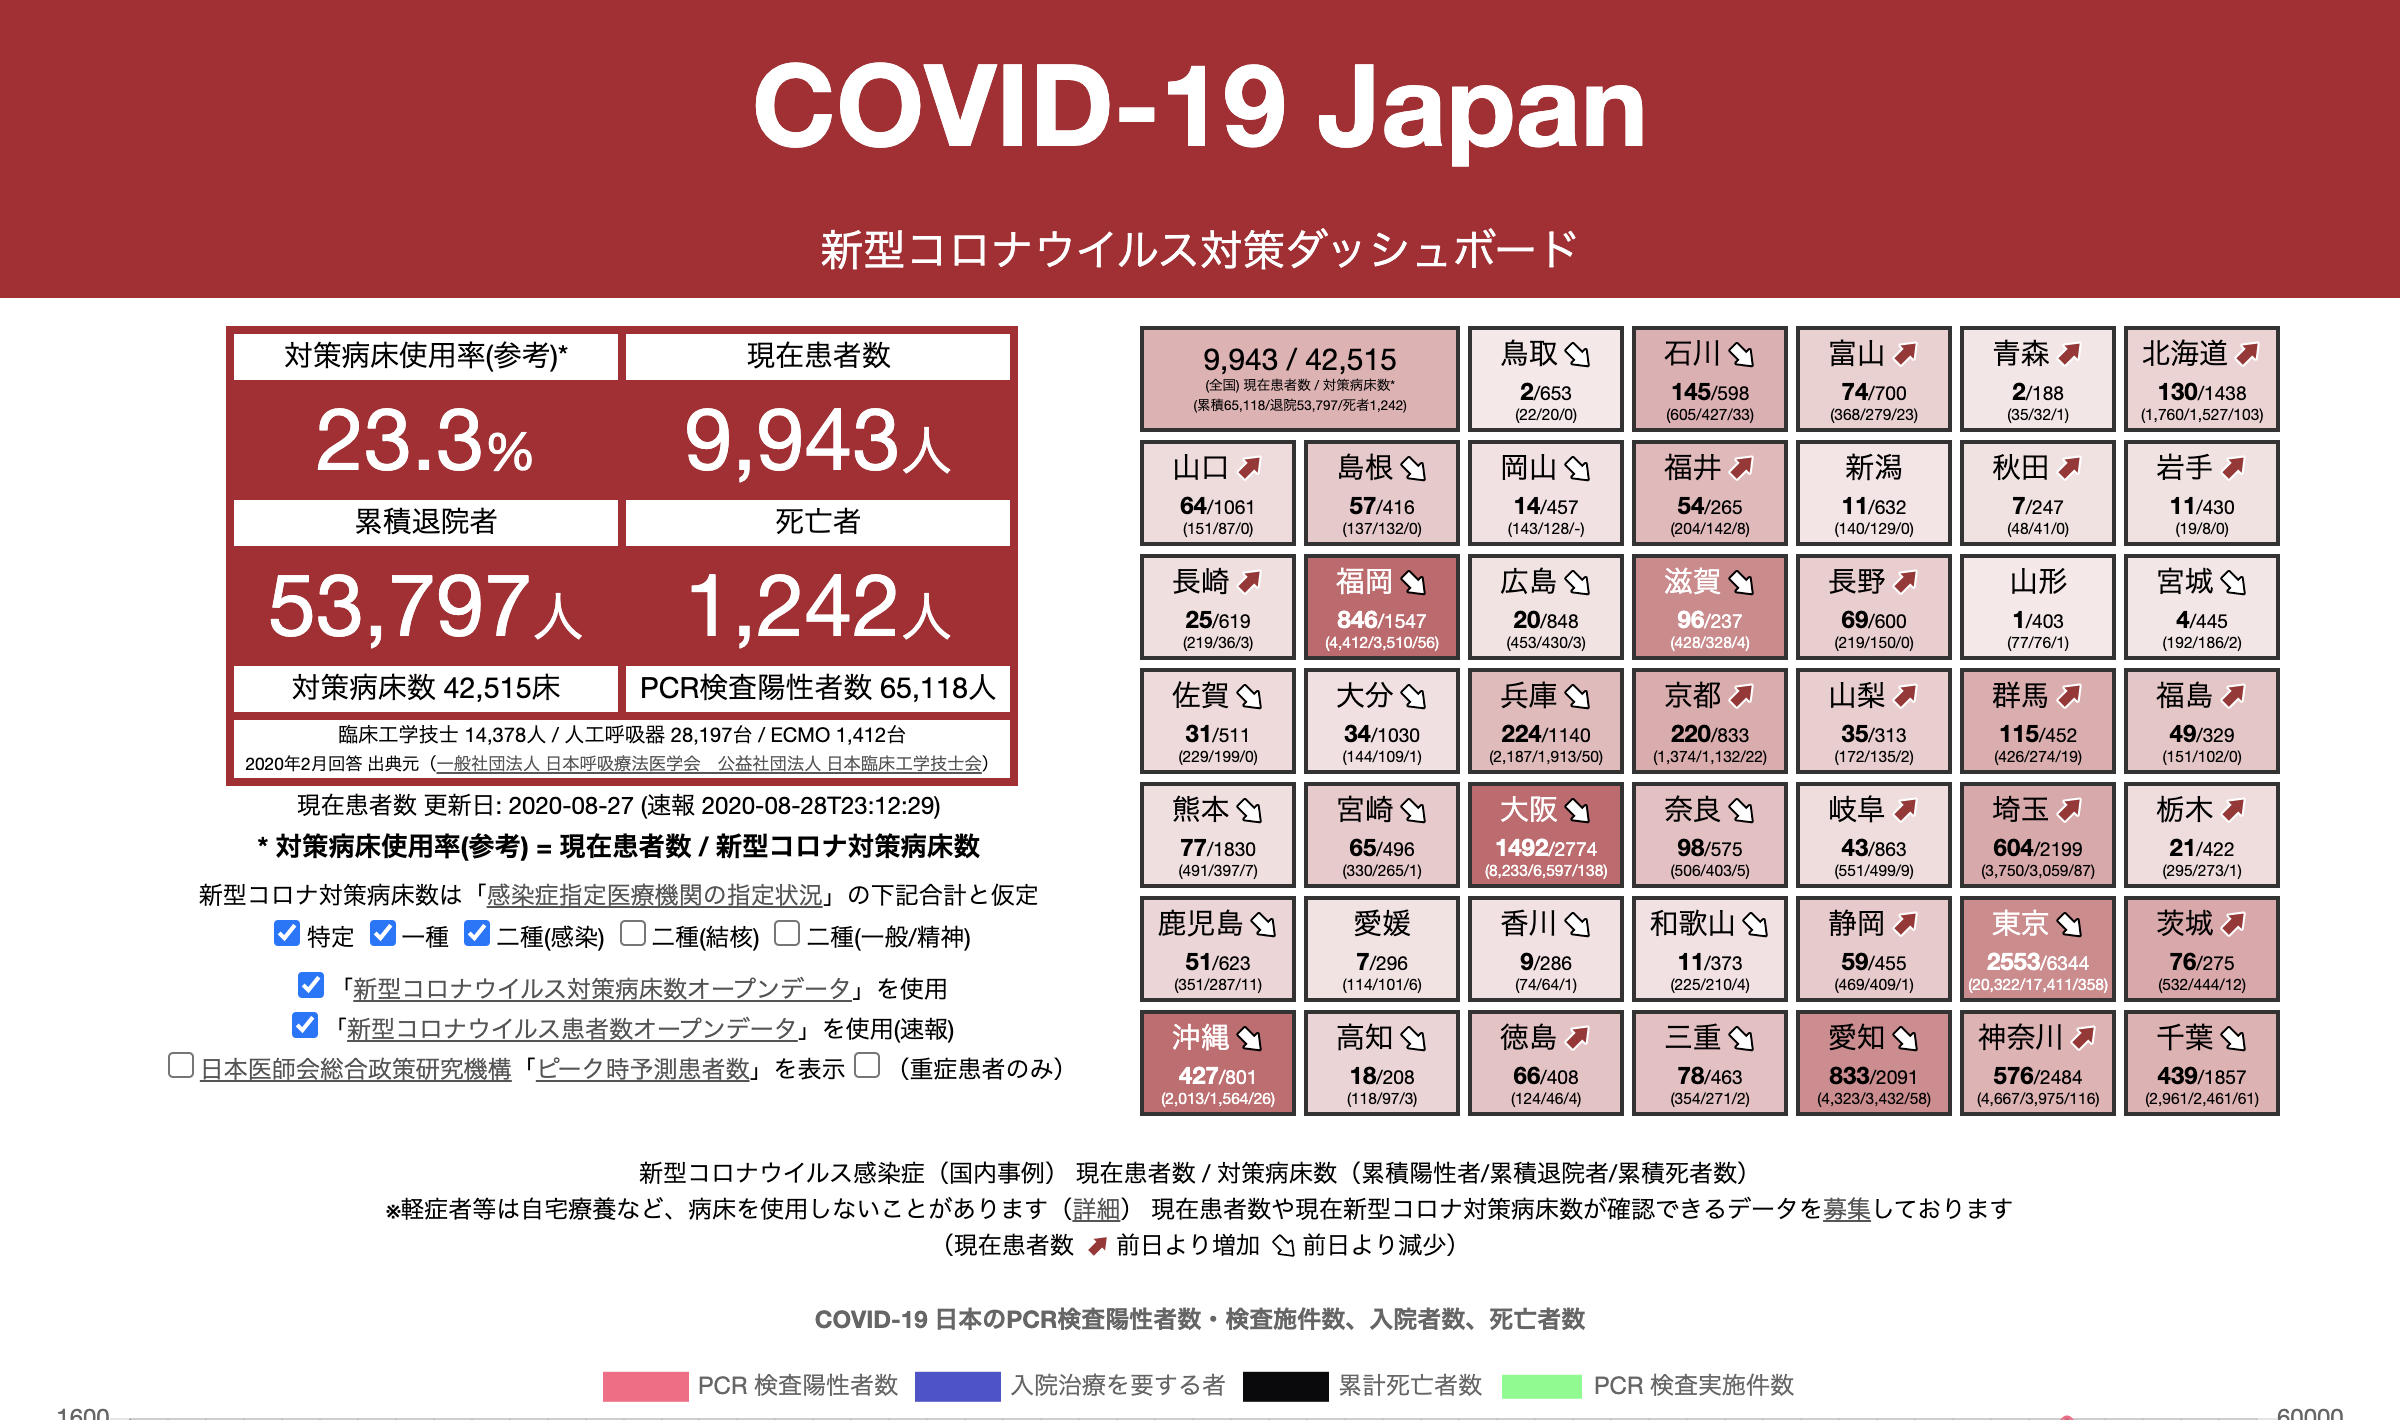
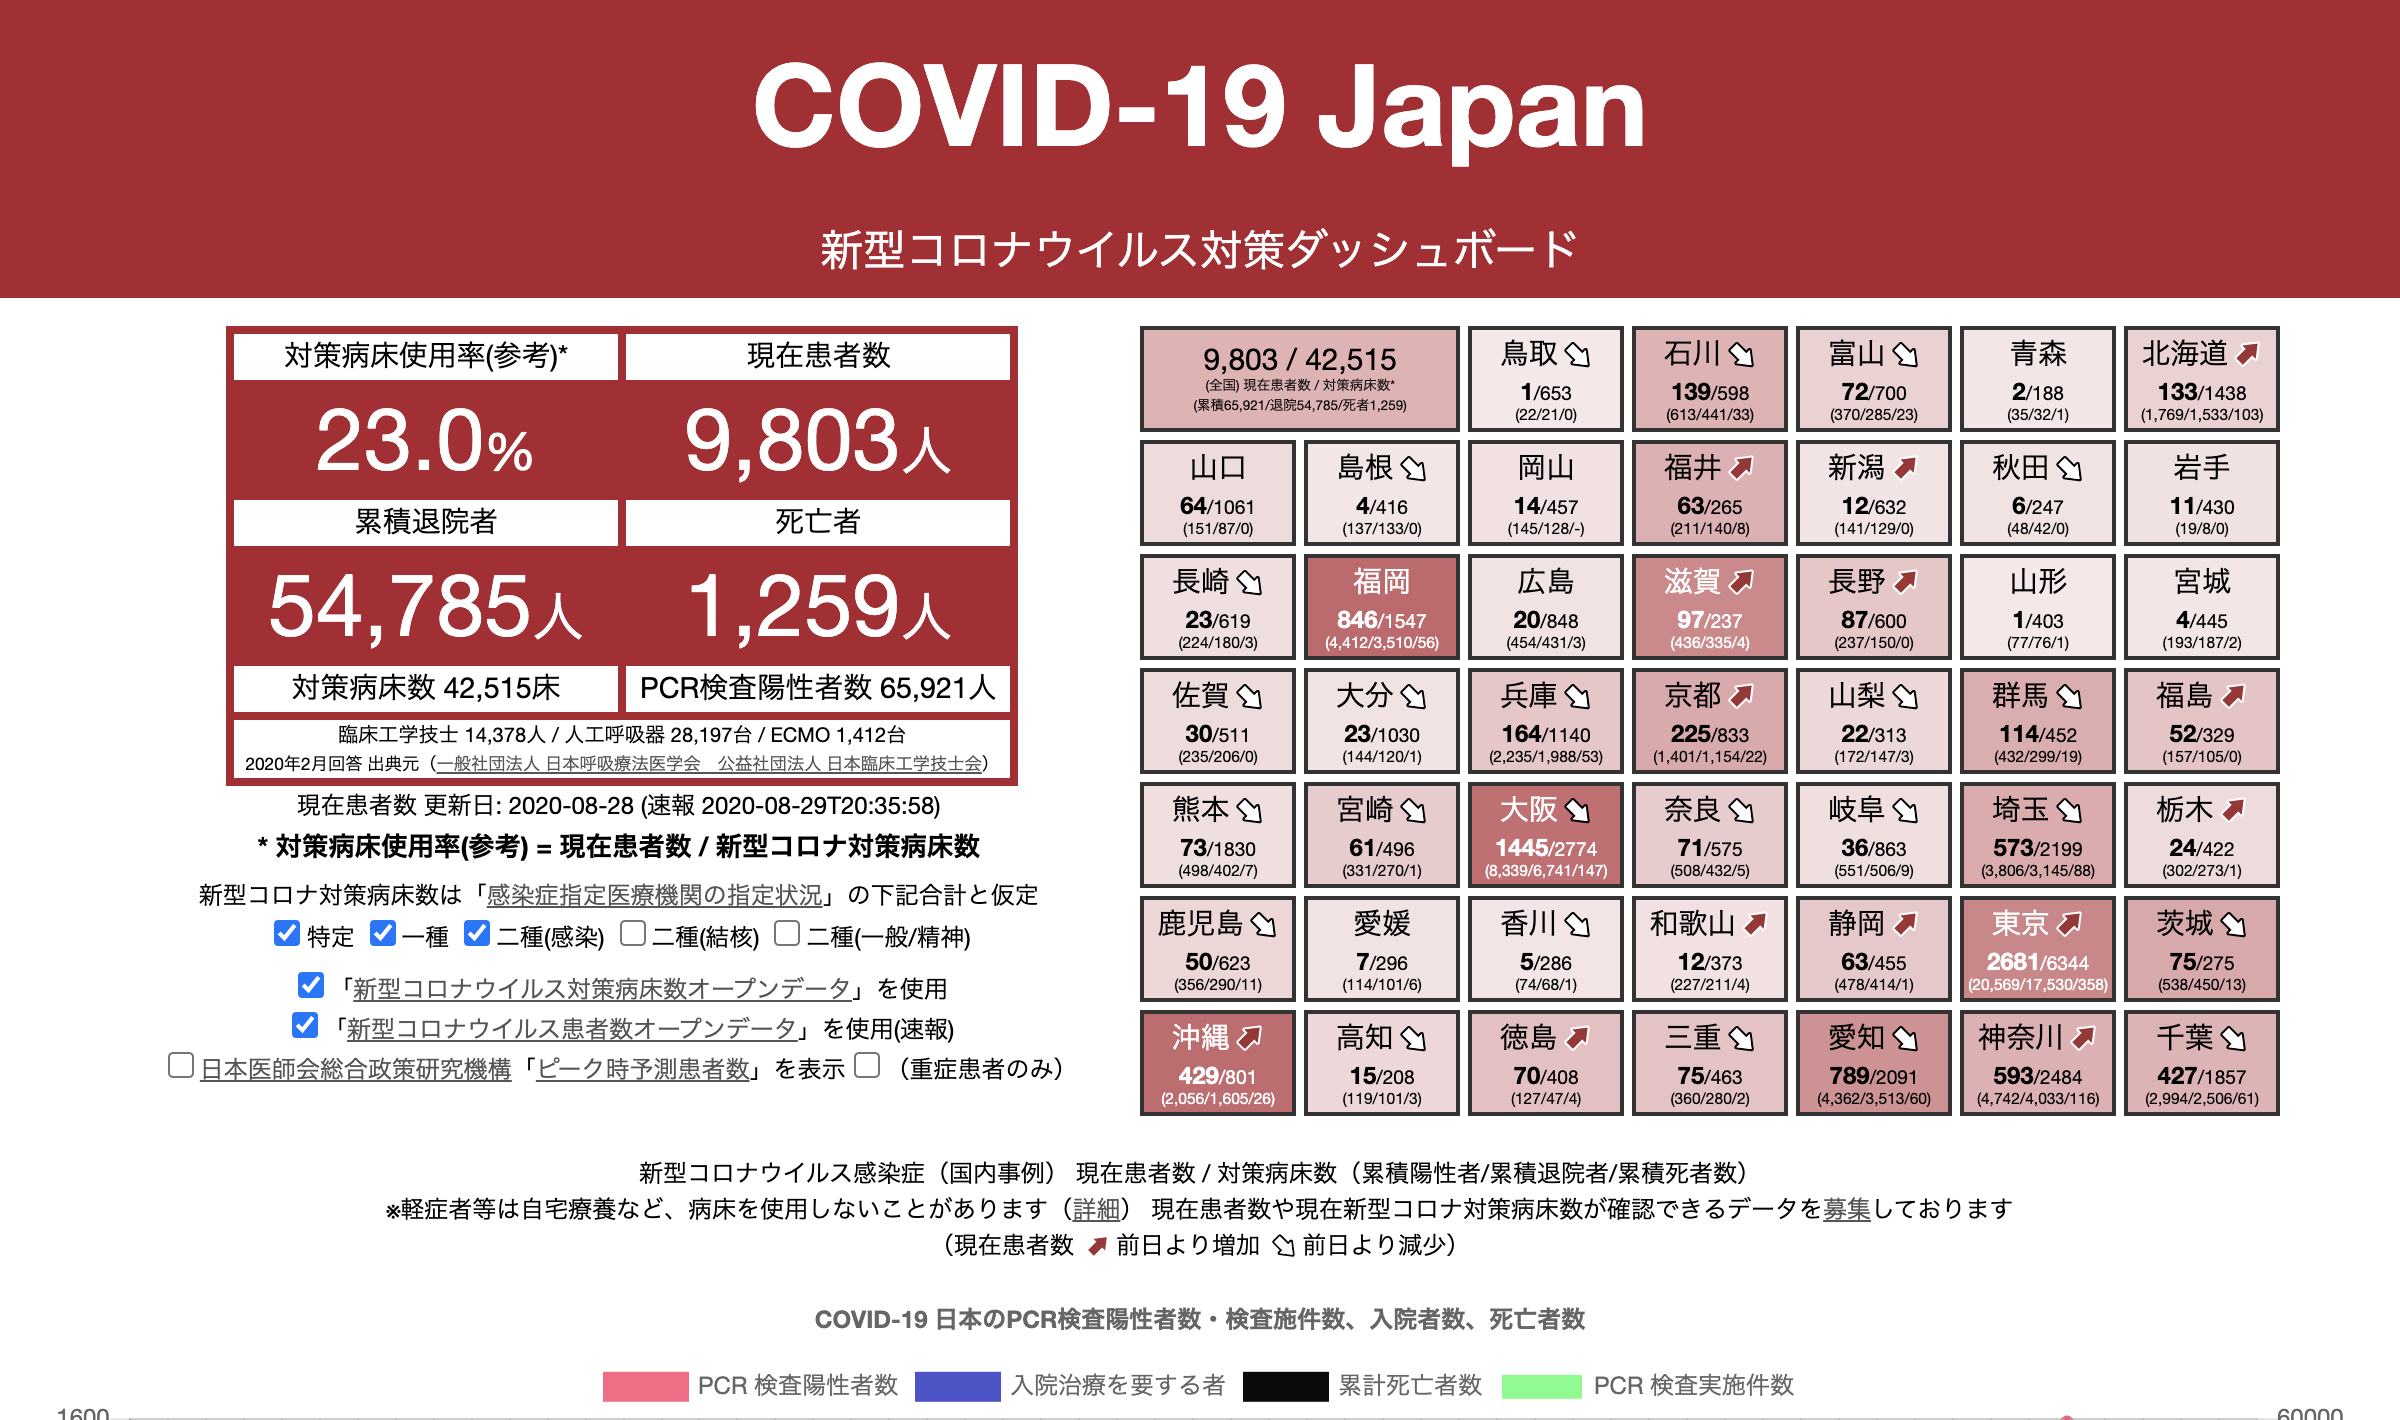
データ更新

diff --git a/index.html b/index.html
@@ -19,8 +19,8 @@ gtag('config', 'UA-162141832-1')
 <link rel="apple-touch-icon" href="covid19japan-leargeicon.png"/>
 <meta name="msapplication-square310x310logo" content="covid19japan-leargeicon.png"/>
 <meta name="twitter:card" content="summary_large_image"/>
-<meta property="og:image"  content="https://www.stopcovid19.jp/ogp/covid19japan_ogp_20200829092256.png"/>
-<meta name="twitter:image" content="https://www.stopcovid19.jp/ogp/covid19japan_ogp_20200829092256.png"/>
+<meta property="og:image"  content="https://www.stopcovid19.jp/ogp/covid19japan_ogp_20200829220055.png"/>
+<meta name="twitter:image" content="https://www.stopcovid19.jp/ogp/covid19japan_ogp_20200829220055.png"/>
 
 <meta name="viewport" content="width=device-width, initial-scale=1.0"/>
 <meta name="format-detection" content="telephone=no"/>
